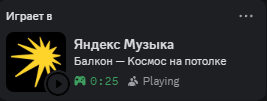
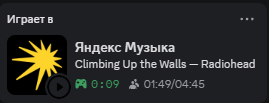
docs: changed readme

diff --git a/README.md b/README.md
@@ -28,7 +28,6 @@ Yandex Music Discord RPC — это легковесное приложение,
 
 - **Автоматическое обновление** — отслеживание текущего трека в реальном времени
 - **Статус воспроизведения** — отображение состояния (играет/пауза)
-- **Красивое оформление** — иконки и информация о треке
 - **Минимальное потребление ресурсов** — работает в фоновом режиме
 - **Windows Media Session API** — нативная интеграция с системой
 
@@ -38,6 +37,7 @@ Yandex Music Discord RPC — это легковесное приложение,
 - Исполнитель
 - Альбом
 - Статус воспроизведения (Playing/Paused)
+- Текущее время/Длина трека
 
 ---
 
@@ -45,13 +45,27 @@ Yandex Music Discord RPC — это легковесное приложение,
 
 ### Требования
 
+#### Для запуска
+
 - **ОС:** Windows 10/11
-- **Компилятор:** MSVC (Visual Studio 2019 или новее)
-- **CMake:** версия 3.10 или выше
 - **Discord:** установленный клиент Discord
 - **Яндекс.Музыка:** десктопное приложение
 
-### Установка
+#### Для сборки
+
+- **Компилятор:** MSVC (Visual Studio 2019 или новее)
+- **CMake:** версия 3.10 или выше
+
+## Использование
+
+1. Скачайте последний релиз из https://github.com/bezdarnosti-yt/yandex_music_discord_presence/releases
+2. Запустите Discord
+3. Откройте Яндекс.Музыку
+4. Запустите `yandex-music-discord-rpc.exe`
+5. Включите музыку в Яндекс.Музыке
+6. Ваш статус в Discord автоматически обновится!
+
+### Сборка
 
 1. **Клонируйте репозиторий:**
 ```bash
@@ -82,13 +96,7 @@ cmake --build . --config Release
 
 ---
 
-## Использование
 
-1. Запустите Discord
-2. Откройте Яндекс.Музыку
-3. Запустите `yandex-music-discord-rpc.exe`
-4. Включите музыку в Яндекс.Музыке
-5. Ваш статус в Discord автоматически обновится!
 
 ---
 
@@ -100,20 +108,6 @@ cmake --build . --config Release
 - **Discord Game SDK** — для интеграции с Discord Rich Presence
 - **Windows Media Session API** — для получения информации о воспроизводимом треке
 - **WinRT C++** — для работы с современными Windows API
-
-### Структура проекта
-
-```
-yandex-music-discord-rpc/
-├── src/
-│   ├── main.cpp           # Основная логика приложения
-│   └── media_session.h    # Работа с Windows Media Session API
-├── discord_game_sdk/      # Discord Game SDK
-│   ├── cpp/               # C++ обертки
-│   └── lib/               # Библиотеки для разных платформ
-├── CMakeLists.txt         # Конфигурация сборки
-└── README.md              # Документация
-```
 
 ### Как это работает
 
@@ -156,14 +150,6 @@ cmake --build . --config Debug
 3. Закоммитьте изменения (`git commit -m 'Add some AmazingFeature'`)
 4. Запушьте в ветку (`git push origin feature/AmazingFeature`)
 5. Откройте Pull Request
-
----
-
-## Известные проблемы
-
-- Работает только с десктопным приложением Яндекс.Музыки (не веб-версия)
-- Требуется Windows 10/11 с поддержкой Media Session API
-- Discord должен быть запущен до старта приложения
 
 ---
 
